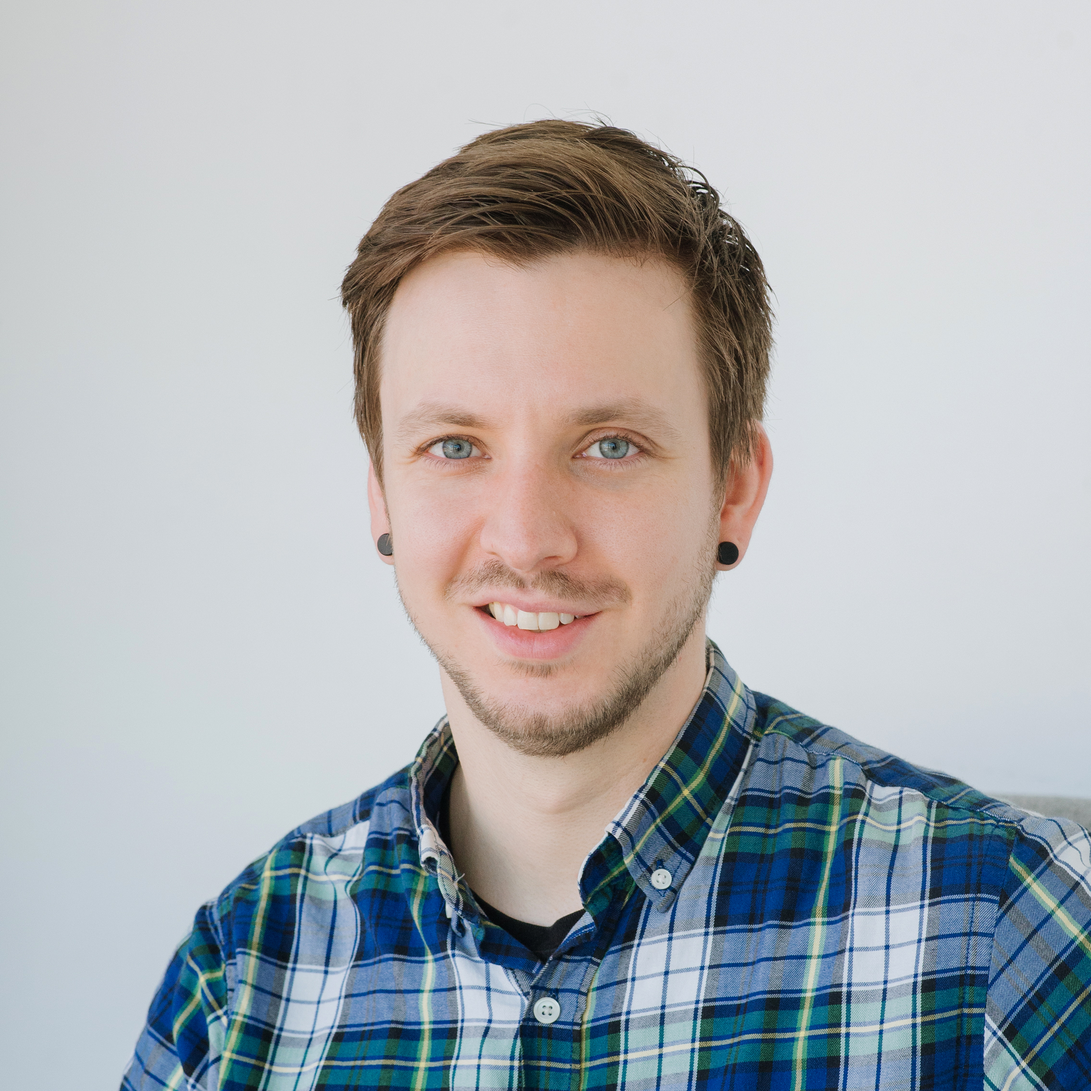
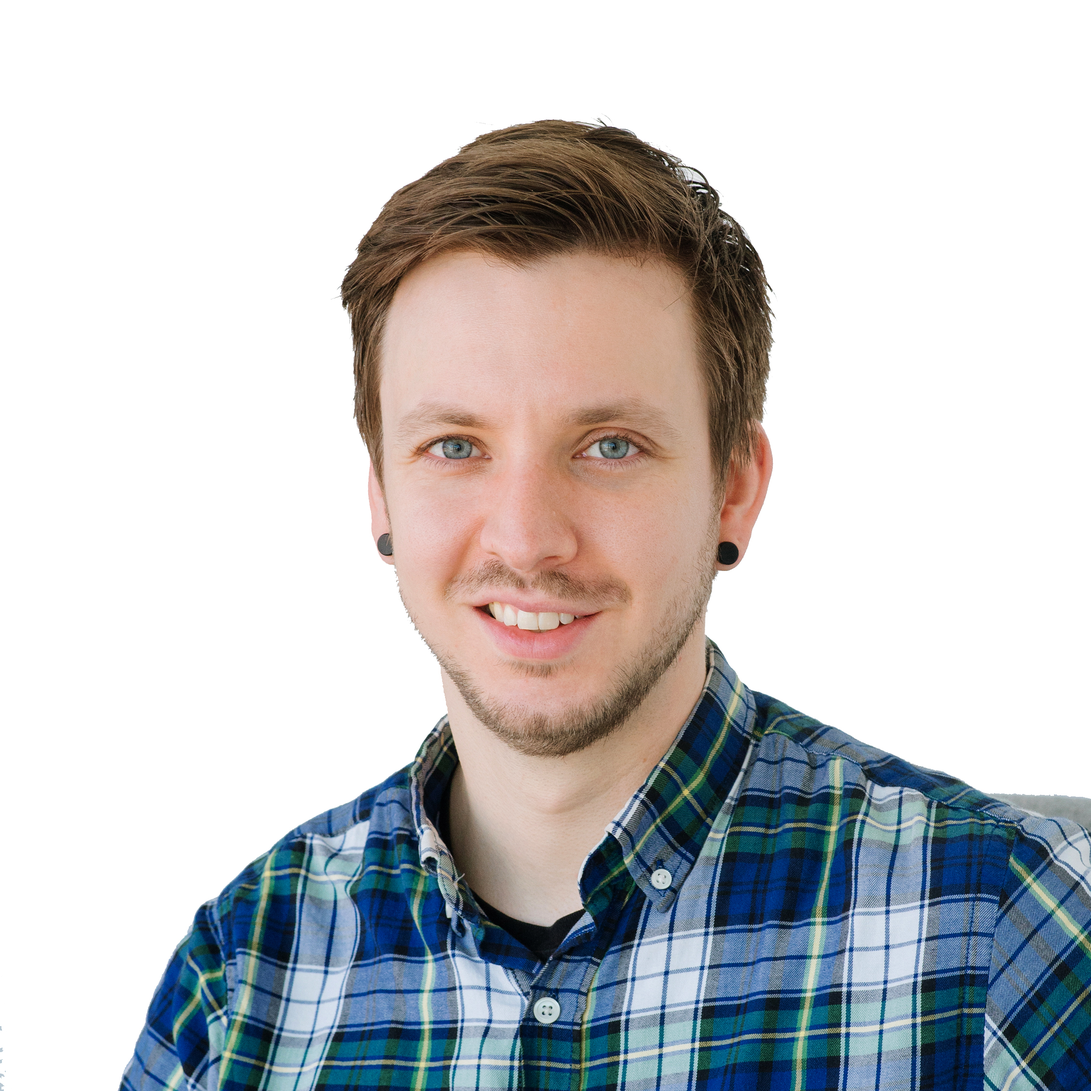
footer update, small media query fix

diff --git a/index.html b/index.html
@@ -20,7 +20,7 @@
             <div class="navFlexContainer">
                 <div class="navLogo">
                     <div class="headshot">
-                        <img src="./assets/julienBigrasHeadshotCropSquareEdit.jpg" alt="Julien Bigras headshot">
+                        <img src="./assets/julienBigrasHeadshotCropSquare.jpg" alt="Julien Bigras headshot">
                     </div>
                     <div class="textContent">
                         <p>jb</p>
@@ -66,7 +66,7 @@
                 <div class="aboutMeFlexContainer">
                     <div class="aboutMePicOuterContainer">
                         <div class="aboutMePic">
-                            <img src="./assets/julienBigrasHeadshotCropSquareEdit.jpg" alt="Julien Bigras Headshot">
+                            <img src="./assets/julienBigrasHeadshotCropSquare.jpg" alt="Julien Bigras Headshot">
                         </div>
                     </div>
                     <div class="aboutMeTextContent">
@@ -251,7 +251,10 @@
     </main>
 
     <footer>
-        <p>&copy 2019 by Julien Bigras</p>
+        <div class="wrapper">
+            <p>Website &copy 2019 by Julien Bigras</p>
+            <p>Header photo by Michele Dalgarno // Headshot by Pam Lau</p>
+        </div>
     </footer>
     
     <script src="https://cdnjs.cloudflare.com/ajax/libs/jquery/2.1.4/jquery.js"></script>

diff --git a/styles/style.css b/styles/style.css
@@ -755,13 +755,12 @@ form input[type=submit] {
 footer {
   background: #141414;
   text-align: center;
+  padding: 15px 0;
 }
 
 footer p {
   color: #fcfcfc;
-  text-transform: uppercase;
-  font-weight: bold;
-  padding: 20px 0;
+  line-height: 1.2rem;
 }
 
 @media (max-width: 1100px) {
@@ -842,6 +841,9 @@ footer p {
   }
   .aboutMeFlexContainer .aboutMeTextContent {
     width: 100%;
+  }
+  .aboutMeFlexContainer .aboutMeTextContent p:first-child {
+    text-align: center;
   }
   .skills ul li i {
     font-size: 3rem;
@@ -972,6 +974,9 @@ footer p {
   .aboutMeFlexContainer .aboutMePicOuterContainer .aboutMePic {
     width: 80%;
   }
+  .aboutMeFlexContainer .aboutMeTextContent p:first-child {
+    font-size: 1rem;
+  }
   .skills ul li {
     width: 50%;
   }
@@ -984,6 +989,9 @@ footer p {
   }
   .contactSocials {
     width: 80%;
+  }
+  footer p {
+    font-size: 0.75rem;
   }
 }
 /*# sourceMappingURL=style.css.map */

diff --git a/styles/partials/general/_mediaQueries.scss b/styles/partials/general/_mediaQueries.scss
@@ -75,6 +75,9 @@
         }
         .aboutMeTextContent {
             width: 100%;
+            p:first-child {
+                text-align: center;
+            }
         }
     }
 
@@ -253,9 +256,18 @@
 
     // ABOUT ME SECTION
 
-    .aboutMeFlexContainer .aboutMePicOuterContainer .aboutMePic {
-        width: 80%;
+    .aboutMeFlexContainer {
+        .aboutMePicOuterContainer .aboutMePic {
+            width: 80%;
+        }    
+        .aboutMeTextContent {
+            p:first-child {
+                font-size: 1rem;;
+            }
+        }
     }
+
+    // SKILLS SECTION
 
     .skills ul li {
         width: 50%;
@@ -273,5 +285,9 @@
 
     .contactSocials {
         width: 80%;
+    }
+
+    footer p {
+        font-size: 0.75rem;
     }
 }

diff --git a/styles/partials/footer/_footer.scss b/styles/partials/footer/_footer.scss
@@ -1,10 +1,9 @@
 footer {
     background: $black;
     text-align: center;
+    padding: 15px 0;
     p {
         color: $bgMain;
-        text-transform: uppercase;
-        font-weight: bold;
-        padding: 20px 0;
+        line-height: 1.2rem;
     }
 }
